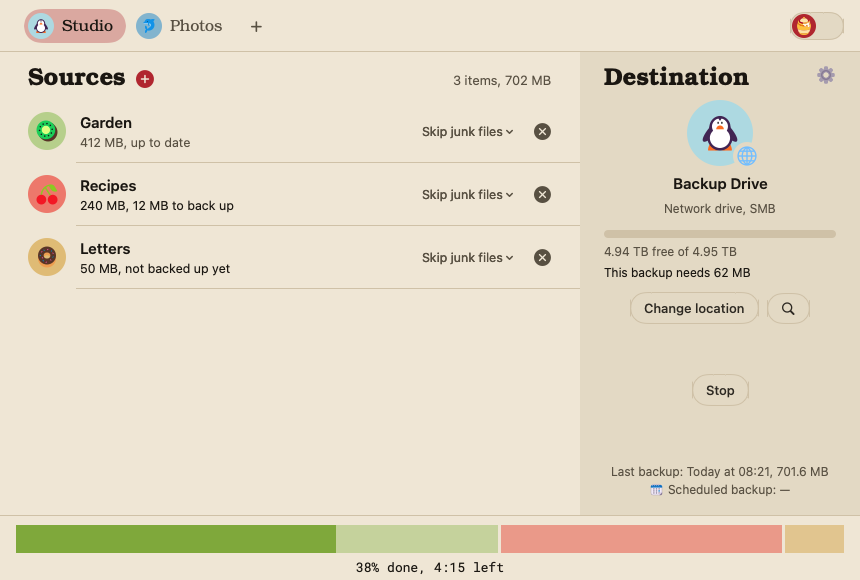
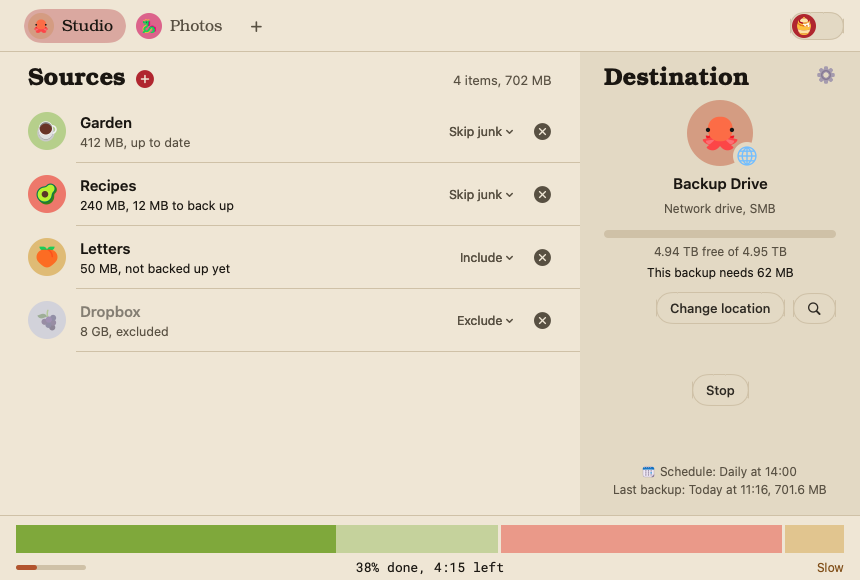
Archivist 0.0.11 — Drive pace under the progress bar (Fast, Good, Slow). Smaller window. Centred destination.

diff --git a/Archivist/JobView.swift b/Archivist/JobView.swift
@@ -360,6 +360,8 @@ struct DropHint: View {
 struct DestinationPane: View {
     let view: JobView
     @State private var over = false
+    @State private var height: CGFloat = 600
+    private var compact: Bool { height < 420 }   // a short window: smaller picture, no drive-kind line, tighter gaps
 
     var body: some View {
         let job = view.job
@@ -378,24 +380,25 @@ struct DestinationPane: View {
                 Missing(view: view, path: path)
             } else if let path = job.destination {
                 VStack(spacing: 8) {
-                    Badge(icon: job.icon, hex: job.color, size: 66)
+                    Badge(icon: job.icon, hex: job.color, size: compact ? 44 : 66)
                         .overlay(alignment: .bottomTrailing) {
                             if let d { Emoji(name: driveSymbol(d), size: 22).padding(3).background(Circle().fill(Palette.raised)).offset(x: 8, y: 4) }
                         }
                     Text(location(path, d)).font(Typeface.text(15, .semibold)).foregroundStyle(Palette.ink)
                         .multilineTextAlignment(.center).fixedSize(horizontal: false, vertical: true)
-                    if let d { Text(kindWords(d) + (job.destinationKind == nil ? "" : ", set by hand")).font(Typeface.text(12)).foregroundStyle(Palette.soft) }
+                    if let d, !compact { Text(kindWords(d) + (job.destinationKind == nil ? "" : ", set by hand")).font(Typeface.text(12)).foregroundStyle(Palette.soft) }
                 }
                 .frame(maxWidth: .infinity)
 
-                if let space = view.space { SpaceBar(free: space.free, total: space.total, needed: needed, hex: job.color).padding(.top, 14) }
+                if let space = view.space { SpaceBar(free: space.free, total: space.total, needed: needed, hex: job.color).padding(.top, compact ? 8 : 14) }
 
-                HStack(spacing: 8) {
-                    Button("Change location", action: view.chooseDestination).buttonStyle(QuietButton())
-                    Button { NSWorkspace.shared.open(URL(fileURLWithPath: path)) } label: { Image(systemName: "magnifyingglass") }
-                        .buttonStyle(QuietButton()).help("Open in Finder")
-                }
-                .frame(maxWidth: .infinity).padding(.top, 12)
+                Button("Change location", action: view.chooseDestination).buttonStyle(QuietButton())
+                    .overlay(alignment: .trailing) {   // centred on its own; the magnifier hangs off its right
+                        Button { NSWorkspace.shared.open(URL(fileURLWithPath: path)) } label: { Image(systemName: "magnifyingglass") }
+                            .buttonStyle(QuietButton()).help("Open in Finder")
+                            .fixedSize().alignmentGuide(.trailing) { d in d[.leading] - 8 }
+                    }
+                    .frame(maxWidth: .infinity).padding(.top, compact ? 8 : 12)
                 .allowsHitTesting(!view.runner.running)
 
                 Spacer(minLength: 8)
@@ -437,6 +440,7 @@ struct DestinationPane: View {
         }
         .padding(.horizontal, 24).padding(.bottom, 18)
         .frame(maxHeight: .infinity, alignment: .top)
+        .background(GeometryReader { g in Color.clear.onAppear { height = g.size.height }.onChange(of: g.size.height) { _, h in height = h } })
         .background(Palette.raised)
         .overlay(RoundedRectangle(cornerRadius: 12).strokeBorder(Palette.accent.opacity(over ? 0.8 : 0), style: StrokeStyle(lineWidth: 1.5, dash: [6, 4])).padding(8))
         .dropDestination(for: URL.self) { urls, _ in
@@ -497,7 +501,10 @@ struct ProblemsLink: View {
     let list: [String]
     @State private var open = false
     var body: some View {
-        Button(list.count == 1 ? "1 file not copied" : "\(list.count) files not copied") { open = true }
+        let folders = list.filter { $0.hasPrefix("Folder ") }.count, files = list.count - folders
+        let words = [folders > 0 ? "\(folders) \(folders == 1 ? "folder" : "folders")" : nil,
+                     files > 0 ? "\(files) \(files == 1 ? "file" : "files")" : nil].compactMap { $0 }
+        Button(words.joined(separator: ", ") + " not copied") { open = true }
             .buttonStyle(.plain).font(Typeface.text(12, .semibold)).foregroundStyle(Palette.warn)
             .popover(isPresented: $open) { Problems(list: list).padding(16).frame(width: 380) }
     }
@@ -513,7 +520,7 @@ struct SpaceBar: View {
     var body: some View {
         let used = Double(total - free) / Double(max(total, 1))
         let after = min(1, used + Double(needed) / Double(max(total, 1)))
-        VStack(alignment: .leading, spacing: 6) {
+        VStack(alignment: .center, spacing: 6) {
             GeometryReader { g in
                 ZStack(alignment: .leading) {
                     // In the backup's colours: what is already on the drive soft, what this backup adds full.
@@ -528,6 +535,7 @@ struct SpaceBar: View {
                 Text(needed <= free ? "This backup needs \(bytes(needed))" : "Needs \(bytes(needed)): \(bytes(needed - free)) more than is free")
                     .font(Typeface.text(12, needed <= free ? .regular : .semibold))
                     .foregroundStyle(needed <= free ? Palette.ink : Palette.warn)
+                    .multilineTextAlignment(.center)
                     .fixedSize(horizontal: false, vertical: true)
             }
         }
@@ -591,12 +599,27 @@ struct BottomBar: View {
                     }
                     .frame(height: 28)
                     .clipped()
+                    ZStack {
+                    if r.running, !r.finishing, let pace = r.pace {
+                        HStack {
+                            ZStack(alignment: .leading) {   // now, against the best this drive has done
+                                Capsule().fill(Palette.rule)
+                                Capsule().fill(Nippon.color(job.color)).frame(width: 70 * pace)
+                            }
+                            .frame(width: 70, height: 5)
+                            .animation(.easeInOut(duration: 1), value: pace)
+                            Spacer()
+                            Text(pace >= 0.7 ? "Fast" : pace >= 0.4 ? "Good" : pace >= 0.15 ? "Slow" : "Very slow")
+                                .font(Typeface.text(12)).foregroundStyle(pace >= 0.4 ? Palette.soft : Palette.warn)
+                        }
+                    }
                     Text(r.stopping ? "Stopping…" : r.finishing ? "Finishing…"
                          : r.running ? (estimating ? "Calculating time left…" : "\(Int(r.steadyFraction(at: tl.date) * 100))% done, \(r.etaWords(at: tl.date))")
                          : (job.ready && view.destinationState == .present ? "Ready to start" : " "))
                         .font(r.running && !estimating ? Typeface.number(12.5) : Typeface.text(12))
                         .foregroundStyle(r.running ? Palette.ink : Palette.soft)
                         .frame(maxWidth: .infinity)
+                    }
                 }
             }
         }

diff --git a/Archivist/Job.swift b/Archivist/Job.swift
@@ -340,7 +340,13 @@ final class Runner {
     var destination: Drive?
     var problems: [String] = []
     private var engine: Engine?
-    private var lastSample = (Date(), Int64(0))
+    private var lastSample = (Date(), Int64(0), 0)
+    var filesPerSecond: Double = 0
+    /// How fast the destination drive is working now against the best it has done (0…1), remembered
+    /// per drive across runs: an SMR drive busy cleaning shows Slow before anyone wonders.
+    var pace: Double?
+    @ObservationIgnored private var paceKey = ""
+    @ObservationIgnored private var paceStart = Date()
 
     func start(_ job: Job, planned: (files: Int, bytes: Int64) = (0, 0), done: @escaping (_ summary: String, _ state: String, _ past: String?, _ total: Int64) -> Void) {
         guard !running else { return }
@@ -357,6 +363,10 @@ final class Runner {
         shownFraction = 0
         problems = []
         bytesPerSecond = 0
+        filesPerSecond = 0
+        pace = nil
+        paceStart = Date()
+        paceKey = "pace:" + (job.destination.map { p in let c = (p as NSString).pathComponents; return c.count > 2 && c[1] == "Volumes" ? c[2] : "/" } ?? "")
         let runs = job.sources.filter { !$0.skip }.compactMap { s in job.target(for: s).map { (s, $0) } }
         if let d = job.destination, let root = job.pastRoot {   // earlier names (_Past, _Archive) -> _📚archive, once
             for old in Names.legacyPasts where !FileManager.default.fileExists(atPath: root) {
@@ -398,7 +408,7 @@ final class Runner {
                     self.source = try? Drive.of(path: src)
                     self.destination = try? Drive.of(path: FileManager.default.fileExists(atPath: dst) ? dst : (dst as NSString).deletingLastPathComponent)
                     if let s = self.source, let d = self.destination { self.lanes = Lanes.choose(source: s.kind, destination: d.kind) }
-                    self.lastSample = (Date(), self.overall.bytes)
+                    self.lastSample = (Date(), self.overall.bytes, self.overall.files)
                 }
                 engine.onProgress = { p in DispatchQueue.main.async { self.tick(p) } }
                 do {
@@ -420,7 +430,7 @@ final class Runner {
                     problems += r.problems
                     stopped = r.stopped
                 } catch {
-                    problems.append("\(error)")
+                    problems.append("Folder \(source.name) not copied: \(error)")
                     DevLog.write("source failed: \(source.name): \(error)")
                 }
             }
@@ -539,7 +549,21 @@ final class Runner {
         }
         let b = overall.bytes
         let dt = Date().timeIntervalSince(lastSample.0)
-        if dt >= 0.5 { bytesPerSecond = bytesPerSecond == 0 ? Double(b - lastSample.1) / dt : bytesPerSecond * 0.7 + Double(b - lastSample.1) / dt * 0.3; lastSample = (Date(), b) }
+        let f = overall.files
+        if dt >= 0.5 {
+            let bNow = Double(b - lastSample.1) / dt, fNow = Double(f - lastSample.2) / dt
+            bytesPerSecond = bytesPerSecond == 0 ? bNow : bytesPerSecond * 0.85 + bNow * 0.15
+            filesPerSecond = filesPerSecond == 0 ? fNow : filesPerSecond * 0.85 + fNow * 0.15
+            lastSample = (Date(), b, f)
+            // Best this drive has done, by files/s (small files) and by bytes/s (big ones); the pace is
+            // whichever kind of work it is doing best at right now, against that best.
+            let d = UserDefaults.standard
+            let bestF = max(d.double(forKey: paceKey + ".f"), filesPerSecond), bestB = max(d.double(forKey: paceKey + ".b"), bytesPerSecond)
+            if Date().timeIntervalSince(paceStart) > 15 {   // the first seconds are cache, not the drive
+                d.set(bestF, forKey: paceKey + ".f"); d.set(bestB, forKey: paceKey + ".b")
+                pace = min(1, max(bestF > 0 ? filesPerSecond / bestF : 0, bestB > 0 ? bytesPerSecond / bestB : 0))
+            }
+        }
     }
 }
 

diff --git a/Archivist/ArchivistApp.swift b/Archivist/ArchivistApp.swift
@@ -22,7 +22,7 @@ struct ArchivistApp: App {
             RootView()
                 .environment(store)
                 .modifier(AppearanceChoice())
-                .frame(minWidth: 780, minHeight: 540)
+                .frame(minWidth: 780, maxWidth: 960, minHeight: 440)   // wider adds nothing; taller shows more sources
         }
         .windowStyle(.hiddenTitleBar)
         .defaultSize(width: 860, height: 580)
@@ -44,7 +44,7 @@ struct RootView: View {
                 Color.clear
             }
         }
-        .background(Palette.ground)
+        .background(Palette.ground.ignoresSafeArea())   // paper to every edge: no strip at the smallest size
         .ignoresSafeArea(.container, edges: .top)   // the strip makes room for the traffic lights itself; a changing inset jumped the layout
         .tint(Palette.accent)
         .task {   // scheduled backups, while Archivist is open
@@ -57,6 +57,7 @@ struct RootView: View {
             if store.jobs.isEmpty { store.add() }
             selection = selection ?? store.jobs.first?.id
             DevLog.write("app open: \(store.jobs.count) backups")
+            for w in NSApp.windows { w.backgroundColor = NSColor(Palette.ground) }   // the window's own fill, under everything
             Scheduler.sync(store.jobs)   // removes the retired background helper if an older build left one
             #if DEBUG
             DevControl.start(store) { selection = $0 }

diff --git a/Archivist/DevTools.swift b/Archivist/DevTools.swift
@@ -144,6 +144,11 @@ enum DevControl {
             guard let j = job(cmd) else { return ["ok": false, "error": "no such job"] }
             store.remove(j.id)
             return ["ok": true]
+        case "resize":   // {"cmd":"resize","w":780,"h":400}: the main window's content size
+            guard let w = cmd["w"] as? Double, let h = cmd["h"] as? Double,
+                  let win = NSApp.windows.first(where: { $0.isVisible && $0.contentView != nil }) else { return ["ok": false] }
+            win.setContentSize(NSSize(width: w, height: h))
+            return ["ok": true, "size": "\(win.frame.size)"]
         case "update":   // press "Install & restart" on whatever GitHub offers
             Task { @MainActor in
                 let v = Bundle.main.object(forInfoDictionaryKey: "CFBundleShortVersionString") as? String ?? "0"

diff --git a/Archivist/Snapshot.swift b/Archivist/Snapshot.swift
@@ -48,6 +48,7 @@ enum Snapshot {
         running.eta = 255
         running.debugAnchor(255)
         running.currentSource = "Workouts"
+        running.pace = 0.3
 
         let update = UpdateInfo(version: "0.0.2", notes: "Folders with their own Finder icon show it.", history: [UpdateNote(version: "0.0.2", notes: "Folders with their own Finder icon show it.")])
         func window(_ job: Job, _ r: Runner, _ s: [Source.ID: Survey], _ d: [String: Drive], space: Bool, missing: Bool = false, update: UpdateInfo? = nil) -> AnyView {
